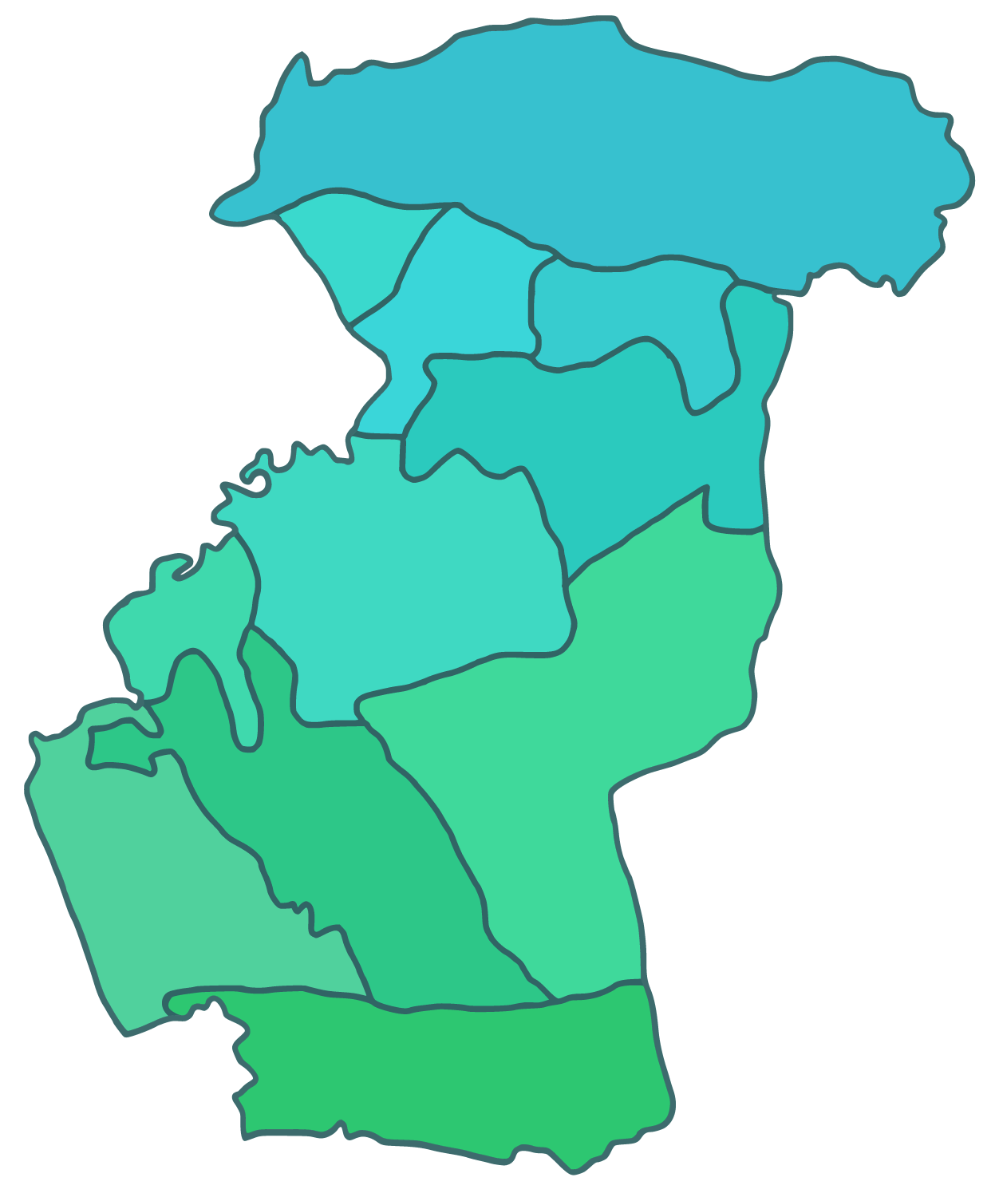
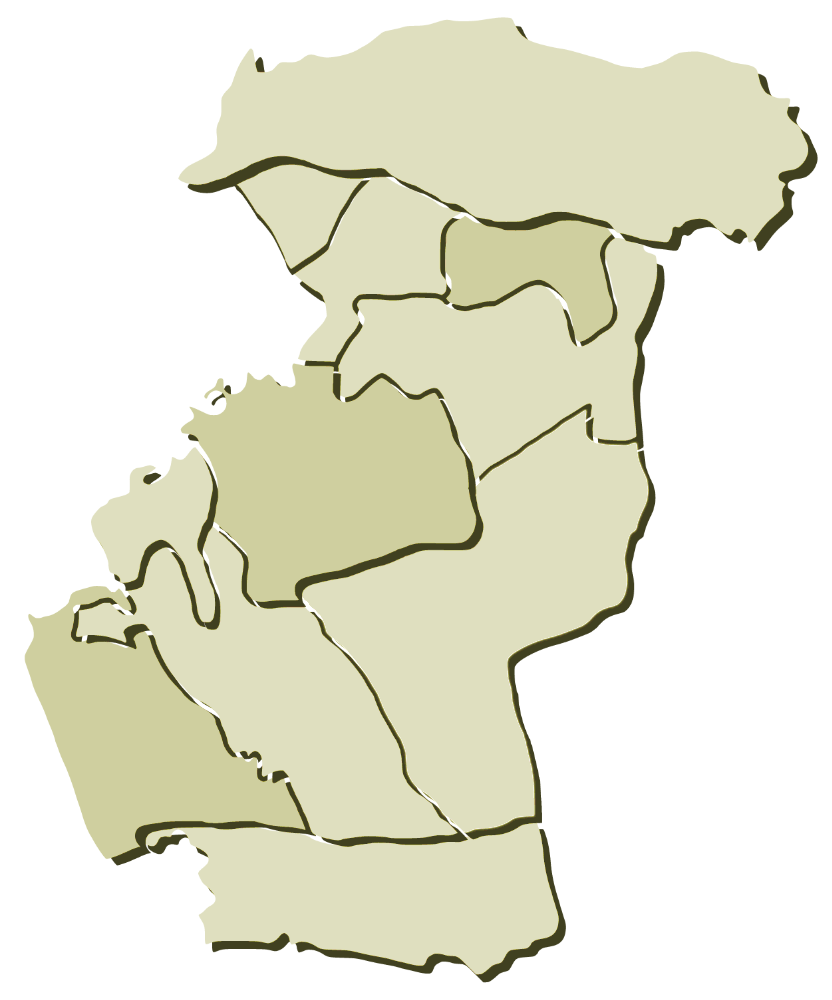
added map improvements

diff --git a/assets/styles/map.scss b/assets/styles/map.scss
@@ -10,44 +10,73 @@
 
   &-color {
     transition: filter 1.5s, transform 1.5s;
+    filter: sepia(0.15);
 
     &:hover {
-      filter: sepia(0.3);
-      transform: scale(1.01);
+      filter: sepia(0.35);
+      transform: scale(1.02);
     }
   }
 
   &-image {
     transition: filter 1.5s;
+  }
+
+  &-label-container {
+    transition: opacity 1s, background-color 1.5s, color 1.5s, transform 1.5s;
+    transform: scale(1);
     &:hover {
+      transform: scale(1.6)!important;
     }
+  }
+
+  [data-map]:hover .map-label-container {
+    cursor: pointer;
+    transform: scale(1.2);
   }
 
   &-label {
-    transition: opacity 1s, transform 1.5s;
-    opacity: 0.7;
-    position: absolute;
-    background: aliceblue;
-    border-radius: 0.25rem 0.25rem 0 0;
+    transition: background-color 1.5s, color 1.5s;
+    background: #154859;
+    color: #ffffff;
+    border-radius: 0.25rem 0.25rem;
     display: flex;
     align-items: center;
-    padding: 0.25rem 0.5rem;
+    font-size: 13px;
+    padding: 0.15rem 0.35rem;
     border-top: 1px solid #495b65;
     border-left: 1px solid #495b65;
     border-right: 1px solid #495b65;
-    border-bottom: 1px solid #a5b2b9;
+    border-bottom: 1px solid #495b65;
+    filter: drop-shadow(4px 3px 0px #000000);
 
     &:hover {
-      transform: scale(1.6)!important;
-      opacity: 1!important;
-      filter: drop-shadow(3px 3px 3px #495b65);
     }
   }
 
-  [data-map]:hover .map-label {
-    opacity: 0.85;
-    transform: scale(1.25);
-    cursor: pointer;
+  .map-label-container:hover .map-label {
+    color: #062731;
+    background: #eefff8;
+  }
+
+  &-marker{
+    transition: opacity 1s, background-color 1.5s, color 1.5s, transform 1.5s, margin-top 1.5s;
+    background: #22720b;
+    border-radius: 0 0.25rem 0.25rem 0;
+    padding: 0.15rem 0.35rem;
+    border-left: 1px solid #154859;
+    border-right: 1px solid #154859;
+    border-bottom: 1px solid #154859;
+    border-bottom: 1px solid #154859;
+    width: 20px;
+    height: 20px;
+    z-index: 10;
+    filter: drop-shadow(3px 3px 1px #000000bb);
+    color: #ffffff;
+    display: flex;
+    justify-content: center;
+    align-items: center;
+    font-size: 14px;
   }
 }
 

diff --git a/assets/controllers/frontpage/frontpage_controller.js b/assets/controllers/frontpage/frontpage_controller.js
@@ -7,6 +7,8 @@ export default class extends Controller {
 
     connect() {
         if (this.hasMapTarget) {
+
+
             const map = this.mapTarget
             cities['cities'].forEach((element) => {
                 map.append(this.addMapLabel(element['name'], element['x'], element['y']))
@@ -16,11 +18,22 @@ export default class extends Controller {
 
     addMapLabel(name, x, y)
     {
-        const div = document.createElement('div');
-        div.setAttribute('class', 'map-label')
-        div.style.left = `${x}px`;
-        div.style.top = `${y}px`;
-        div.innerHTML = name
+        const div = document.createElement('div')
+        div.setAttribute('class', 'map-label-container position-absolute d-flex align-items-center justify-content-center')
+        div.style.left = `${x}px`
+        div.style.top = `${y}px`
+
+        const label = document.createElement('div')
+        label.setAttribute('class', 'map-label')
+        label.innerHTML = name
+
+        const marker = document.createElement('div')
+        marker.setAttribute('class', 'map-marker')
+        marker.innerHTML = '2'
+
+        div.appendChild(label)
+        div.appendChild(marker)
+
         return div
     }
 }
